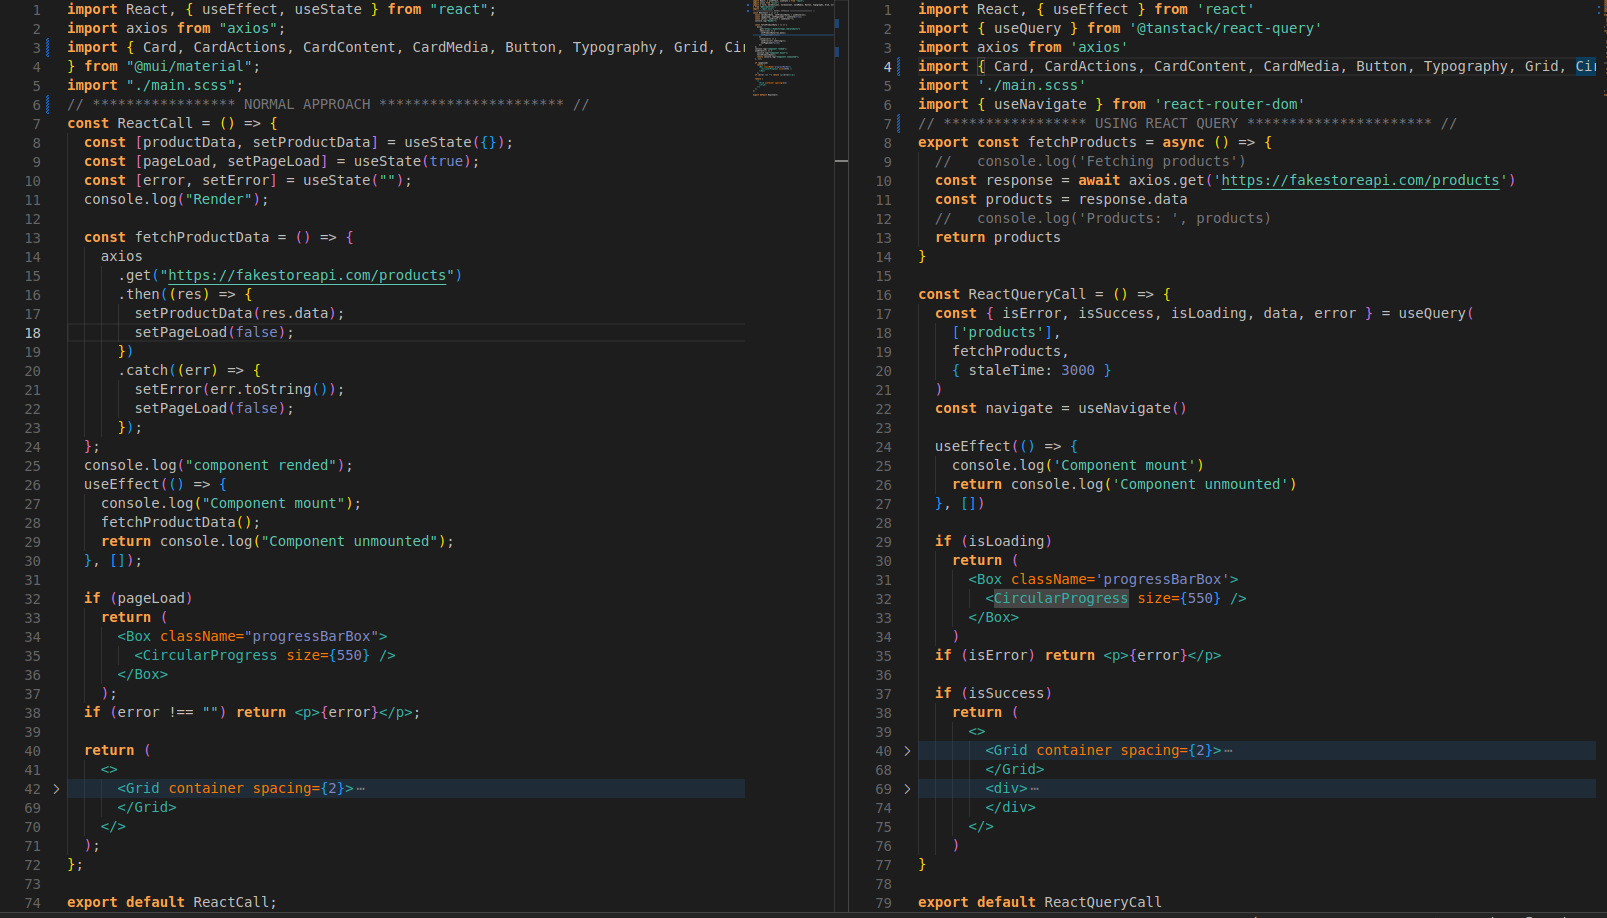
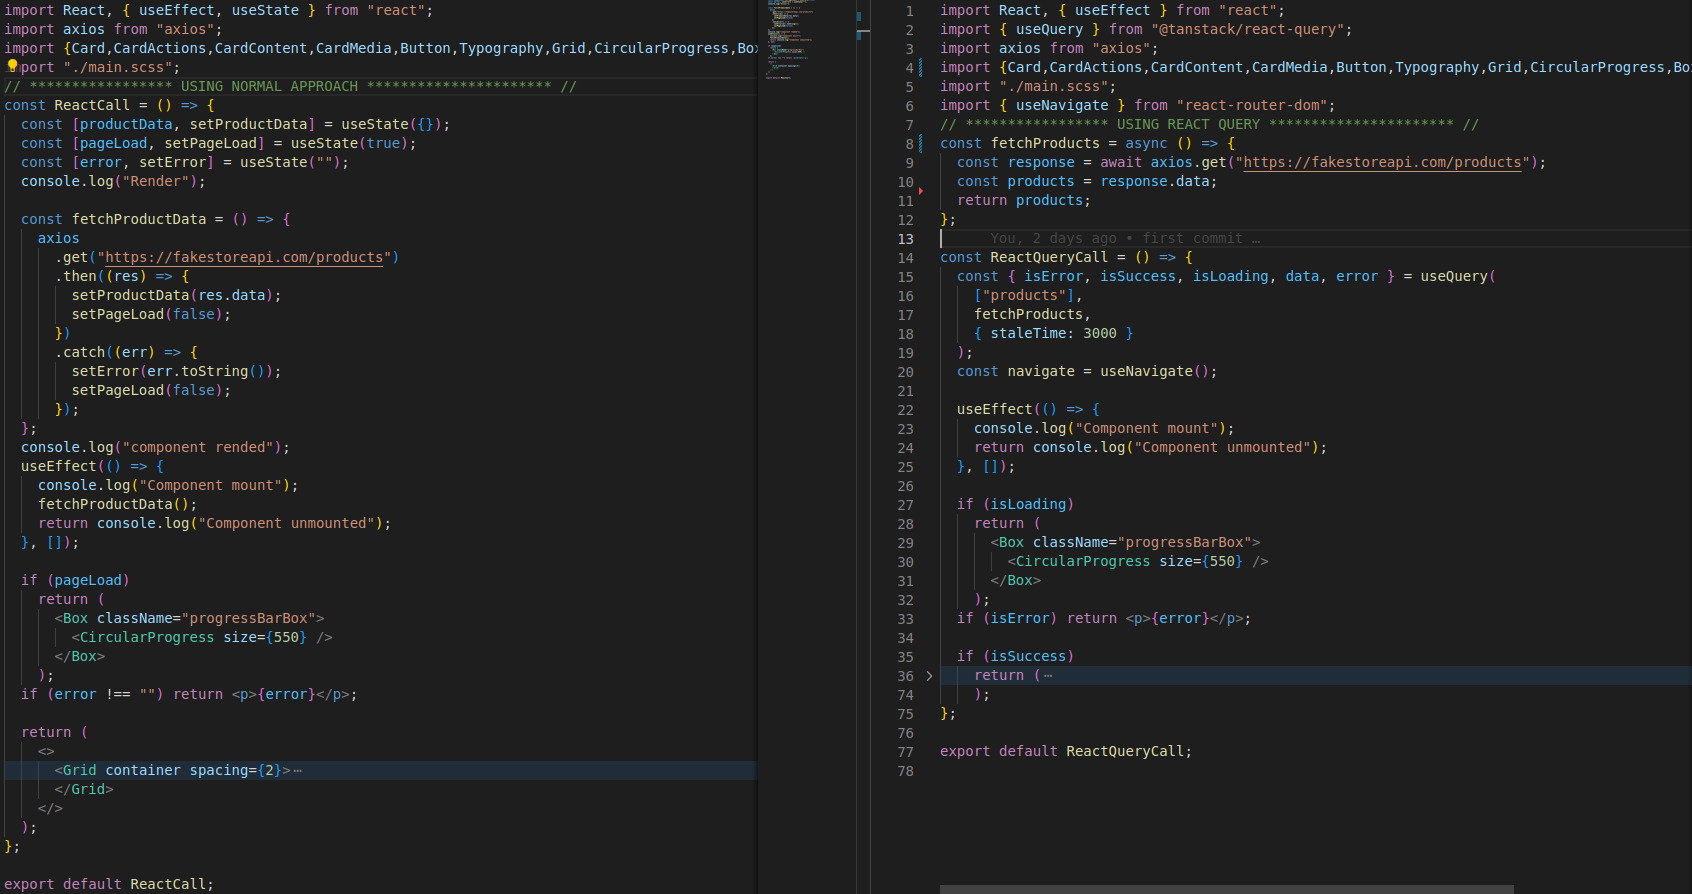
v1.0 added

diff --git a/src/Intro.js b/src/Intro.js
@@ -1,24 +1,27 @@
-import React from "react";
-import "./main.scss";
-import DiffrentApprocah from "./Images/DiffrentApprocah.png";
-import cachedImg from "./Images/cachedImg.png";
+import React from 'react'
+import './main.scss'
+import DiffrentApprocah from './Images/DiffrentApprocah.png'
+import cachedImg from './Images/cachedImg.png'
 
 const Introduction = () => {
   return (
     <>
-      <div className="intoContainer">
+      <div className='intoContainer'>
         {/* Main Header */}
-        <div className="intoItemsMainHeader">
-          <p className="headerNormalApprocah">
-            Why to use <span className="topic">React Query?</span>
+        <div className='intoItemsMainHeader'>
+          <p className='headerNormalApprocah'>
+            Why to use <span className='topic'>React Query?</span>
           </p>
-          <p>Basically React Query is used during API calls.</p>
+          <p>
+            Data-fetching library with fetching, caching, synchronizing, and
+            updating server state for React.
+          </p>
         </div>
       </div>
-      <div className="container">
+      <div className='container'>
         {/* Normal apporoach section */}
-        <div className="intoItemsApproach">
-          <p className="headerNormalApprocah">
+        <div className='intoItemsApproach'>
+          <p className='headerNormalApprocah'>
             Issue with normal implementation!
           </p>
           <p>
@@ -26,66 +29,67 @@ const Introduction = () => {
             multiple states. Due to multiple states it becomes complicated and
             hard to handle react app.
           </p>
-          <p>** States required while calling an API</p>
+          <p>** States required while calling an API.</p>
           <ul>
             <li>
               Loading:
               <span>
-                {" "}
-                To check weather API call is completed and stop page loader
+                {' '}
+                To check weather API call is completed and stop page loader.
               </span>
             </li>
             <li>
-              Error:<span>Show error on page is API call fails</span>
+              Error:<span> Show error on page is API call fails.</span>
             </li>
             <li>
-              Data:<span>Show data on page accordingly</span>
+              Data:<span> Show data on page accordingly.</span>
             </li>
           </ul>
           <p>
             While using normal approach API call will be made after rendering of
-            component. Even if API call is made inside useEffect.
+            component.
           </p>
           <p>
-            Another issue with normal approach is that when we re renders the
+            Another issue with normal approach is that when we re-renders the
             page API call will be made again and again. That will make out slow
-            to render
+            to render.
           </p>
         </div>
         {/* React query apporoach section */}
-        <div className="intoItemsRectQueryApproach">
-          <p className="headerNormalApprocah">
+        <div className='intoItemsRectQueryApproach'>
+          <p className='headerNormalApprocah'>
             Ways to deal this above issue ?
           </p>
 
-          <div>Caching techinques can be used to save us from above issue</div>
-          <div className="sectionMargin">
+          <div>Caching techinques can be used to save us from above issue.</div>
+          <div className='sectionMargin'>
             React Query can be used &#128640;.
           </div>
           <div>What react-query provides ?</div>
           <p>
             While using react-query we don't need to have multiple different
-            states such as Loading, Error,Data
+            states such as Loading, Error, Data.
           </p>
-          <code className="codeBlock">
-            const {" { isError, isSuccess, isLoading, data, error } "} =
-            useQuery( ['products'], fetchProducts, '{" staleTime: 3000 "}' )
+          <code className='codeBlock'>
+            const {' { isError, isSuccess, isLoading, data, error } '} =
+            useQuery( ['products'], fetchProducts, '{' staleTime: 3000 '}' )
           </code>
           <p>
             React-query by default provides all states required during an api
-            call and mantain a Component
+            call and mantain a Component.
           </p>
           <p>
-            <span className="codePart">['products']</span> is nothing just
+            <span className='codePart'>['products']</span> is nothing just
             unique name given to paticular data.
           </p>
           <p>
-            <span className="codePart">fetchProducts</span> is function where
+            <span className='codePart'>fetchProducts</span> is function where
             API call is written.
           </p>
           <p>
-            <span className="codePart">staleTime</span> means ,how long we want
-            to keep data cached.
+            <span className='codePart'>staleTime</span> means ,after how long
+            time we want to call API againg to fetch data. It terms for
+            freshness of data.
           </p>
           <p>
             One good thing about react query is that it makes an API called
@@ -95,20 +99,20 @@ const Introduction = () => {
         </div>
 
         {/* approcah diffrence code */}
-        <div className="intoItemsDisplayImg">
-          <img className="" src={DiffrentApprocah} alt="diif-approach-image" />
+        <div className='intoItemsDisplayImg'>
+          <img src={DiffrentApprocah} alt='diffrent-approach' loading='lazy' />
         </div>
 
         {/* Taking data from cache */}
-        <div className="intoItemsCacheData">
-          <p className="headerNormalApprocah">
+        <div className='intoItemsCacheData'>
+          <p className='headerNormalApprocah'>
             Fetching Data From React Query Cache
           </p>
           <p>
-            As we have defined <span className="codePart">staleTime</span> ,So
-            it will allow us to use cache data until 3 seconds.
+            Default cache time is 5 minutes. We can also change it using{' '}
+            <span className='codePart'>cacheTime</span>.
           </p>
-          <code className="codeBlock">
+          <code className='codeBlock'>
             const queryClient = useQueryClient();
             <br />
             const cacheData = queryClient.getQueryData(["products"]);
@@ -116,22 +120,101 @@ const Introduction = () => {
         </div>
 
         {/* approcah diffrence code */}
-        <div className="intoItemsDisplayImg">
+        <div className='intoItemsDisplayImg'>
           <br />
-          <img className="" src={cachedImg} alt="diif-approach-image" />
+          <img className='' src={cachedImg} alt='cache' />
         </div>
+
+        <div className='introItemsDevTools'>
+          <p className='headerNormalApprocah'>React Query Dev Tools</p>
+          <p>
+            React Query Dev Tools can be used to see data that is stored inside
+            react query.It help visualize all of the inner workings of React
+            Query and will likely save you hours of debugging.
+          </p>
+          <p>How it works?</p>
+          <code className='codeBlock'>
+            <span>npm i @tanstack/react-query-devtools</span>
+          </code>
+          <p>Install above dependency</p>
+
+          <code className='codeBlock'>
+            {
+              'import  { ReactQueryDevtools } from "@tanstack/react-query-devtools" '
+            }{' '}
+            <br />
+            {'<ReactQueryDevtools initialIsOpen={false} />'}
+          </code>
+          <p>
+            It can be any Component where the above code can be written but
+            prefer way is to write it in the main app.js or router file. So that
+            dev tools can be accessed on all pages.
+          </p>
+        </div>
+
+        <div className='introItemsConfig'>
+          <p className='headerNormalApprocah'>React Query Config</p>
+          <code className='codeBlock'>
+            const {' { isError, isSuccess, isLoading, data, error } '} =
+            useQuery( ['products','arguments to fetchProducts'], fetchProducts,
+            {
+              // eslint-disable-next-line
+              '{staleTime: 3000 , cacheTime:5000, onSuccess: (data) => {console.log(`Data fetched ${data}`)}, onError: ()=>  {console.log("Error in Data fetched")}}'
+            }
+            )
+          </code>
+          <p>
+            <span className='codePart'>arguments to fetchProducts</span> any
+            arguments can be passed to fetch function using this way.
+          </p>
+          <p>
+            <span className='codePart'>staleTime: 3000</span> No matter
+            component mounts or unmounts, I don't want an API call for 2 mins
+            after the first time get data. That is what staleTime is doing.
+            staleTime tells you how fresh you data is. It is very similar to
+            Cache-Control: max-age=120.
+          </p>
+          <p>
+            <span className='codePart'>cacheTime:5000</span> cacheTime is
+            something totally different. Think about it as a garbage-collect
+            time. It basically describes how long data should be kept in the
+            cache before it can be garbage collected. This is only relevant for
+            unused queries, because active queries can per definition not be
+            garbage collected.
+          </p>
+          <p>
+            <span className='codePart'>onSuccess</span> The onSuccess callback
+            function is called only when the data has been retrieved from the
+            query.
+          </p>
+          <p>
+            <span className='codePart'>onError</span> At first glance, it looks
+            like the onError callback is exactly what we need to perform a side
+            effect if a fetch fails, and it will also work.
+          </p>
+        </div>
+
+        {/* Github code link */}
         <div>
-          <svg xmlns="http://www.w3.org/2000/svg" width="24" height="24">
+          <br />
+          <svg xmlns='http://www.w3.org/2000/svg' width='24' height='24'>
             <path
-              fillRule="evenodd"
-              d="M12.026 2c-5.509 0-9.974 4.465-9.974 9.974 0 4.406 2.857 8.145 6.821 9.465.499.09.679-.217.679-.481 0-.237-.008-.865-.011-1.696-2.775.602-3.361-1.338-3.361-1.338-.452-1.152-1.107-1.459-1.107-1.459-.905-.619.069-.605.069-.605 1.002.07 1.527 1.028 1.527 1.028.89 1.524 2.336 1.084 2.902.829.091-.645.351-1.085.635-1.334-2.214-.251-4.542-1.107-4.542-4.93 0-1.087.389-1.979 1.024-2.675-.101-.253-.446-1.268.099-2.64 0 0 .837-.269 2.742 1.021a9.582 9.582 0 012.496-.336 9.554 9.554 0 012.496.336c1.906-1.291 2.742-1.021 2.742-1.021.545 1.372.203 2.387.099 2.64.64.696 1.024 1.587 1.024 2.675 0 3.833-2.33 4.675-4.552 4.922.355.308.675.916.675 1.846 0 1.334-.012 2.41-.012 2.737 0 .267.178.577.687.479C19.146 20.115 22 16.379 22 11.974 22 6.465 17.535 2 12.026 2z"
-              clipRule="evenodd"
+              fillRule='evenodd'
+              d='M12.026 2c-5.509 0-9.974 4.465-9.974 9.974 0 4.406 2.857 8.145 6.821 9.465.499.09.679-.217.679-.481 0-.237-.008-.865-.011-1.696-2.775.602-3.361-1.338-3.361-1.338-.452-1.152-1.107-1.459-1.107-1.459-.905-.619.069-.605.069-.605 1.002.07 1.527 1.028 1.527 1.028.89 1.524 2.336 1.084 2.902.829.091-.645.351-1.085.635-1.334-2.214-.251-4.542-1.107-4.542-4.93 0-1.087.389-1.979 1.024-2.675-.101-.253-.446-1.268.099-2.64 0 0 .837-.269 2.742 1.021a9.582 9.582 0 012.496-.336 9.554 9.554 0 012.496.336c1.906-1.291 2.742-1.021 2.742-1.021.545 1.372.203 2.387.099 2.64.64.696 1.024 1.587 1.024 2.675 0 3.833-2.33 4.675-4.552 4.922.355.308.675.916.675 1.846 0 1.334-.012 2.41-.012 2.737 0 .267.178.577.687.479C19.146 20.115 22 16.379 22 11.974 22 6.465 17.535 2 12.026 2z'
+              clipRule='evenodd'
             ></path>
-          </svg>
+          </svg>{' '}
+          <a
+            href='https://github.com/SV96/React-Query'
+            target='_blank'
+            rel='noreferrer'
+          >
+            Github Link To Code
+          </a>
         </div>
       </div>
     </>
-  );
-};
+  )
+}
 
-export default Introduction;
+export default Introduction

diff --git a/src/ReactQueryCall.js b/src/ReactQueryCall.js
@@ -14,6 +14,8 @@ import {
 } from "@mui/material";
 import "./main.scss";
 import { useNavigate } from "react-router-dom";
+import { ReactQueryDevtools } from '@tanstack/react-query-devtools'
+
 // ***************** USING REACT QUERY ********************** //
 export const fetchProducts = async () => {
   //   console.log('Fetching products')
@@ -51,7 +53,7 @@ const ReactQueryCall = () => {
           {data &&
             data.map((value) => {
               return (
-                <Grid item md={6} lg={3}>
+                <Grid item md={6} lg={3} key={value.id}>
                   <Card sx={{ height: "100%" }}>
                     <CardMedia
                       component="img"
@@ -82,6 +84,7 @@ const ReactQueryCall = () => {
             Cached Data
           </Button>
         </div>
+        {process.env.REACT_APP_DEPLOYMET === 'DEV' ? <ReactQueryDevtools initialIsOpen={false} /> : null}
       </>
     );
 };

diff --git a/src/main.scss b/src/main.scss
@@ -100,9 +100,19 @@ img {
   border-bottom: 2.5px solid #2a4f6e;
 }
 
-.intoItemsCacheData {
+.introItemsDevTools{
   border-bottom: 2.5px solid #2a4f6e;
   order: 5;
+}
+
+.introItemsConfig {
+  border-bottom: 2.5px solid #2a4f6e;
+  order: 5;
+}
+
+.intoItemsCacheData {
+  border-bottom: 2.5px solid #2a4f6e;
+  // order: 6;
 }
 
 .topic {
@@ -115,7 +125,7 @@ img {
 
 .headerNormalApprocah {
   font-size: 20px;
-  font-weight: 100;
+  font-weight: 500;
   color: #2a4f6e;
 }
 
@@ -131,6 +141,7 @@ img {
   padding: 2px;
   border-radius: 5px;
   box-shadow: 2px 2px 2px 2px #888888;
+  margin-right: 5px;
 }
 
 .container {
